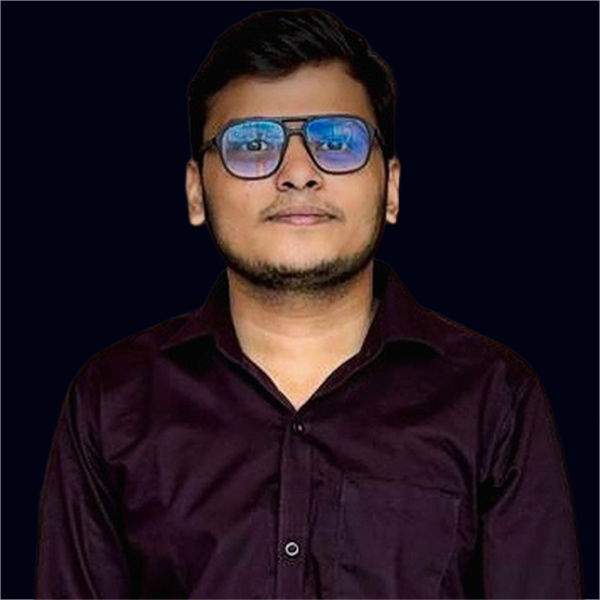
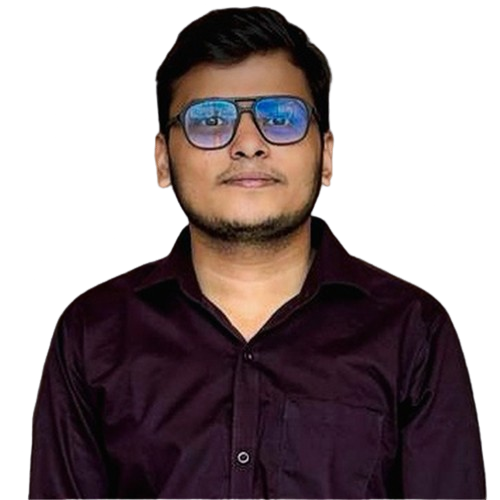
improved Vw and img

diff --git a/style.css b/style.css
@@ -244,7 +244,7 @@ footer{
     flex-direction: column;
     align-items: center;
     background-color: #050b35;
-    width: 100vw;
+    width: 98vw;
     padding: 10px 0;
 }
 
